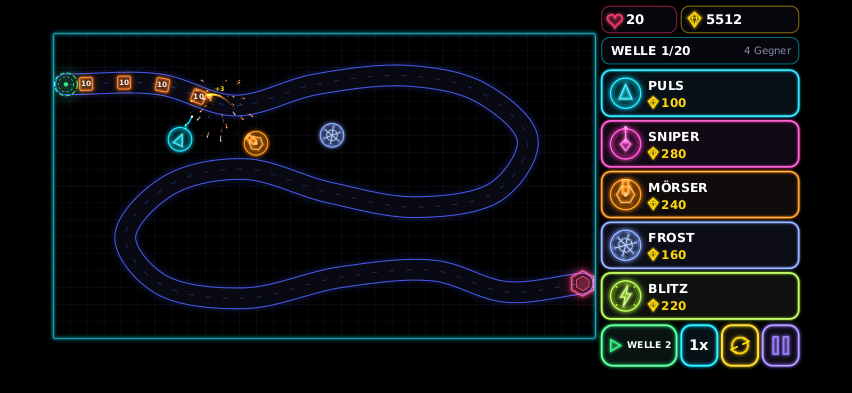
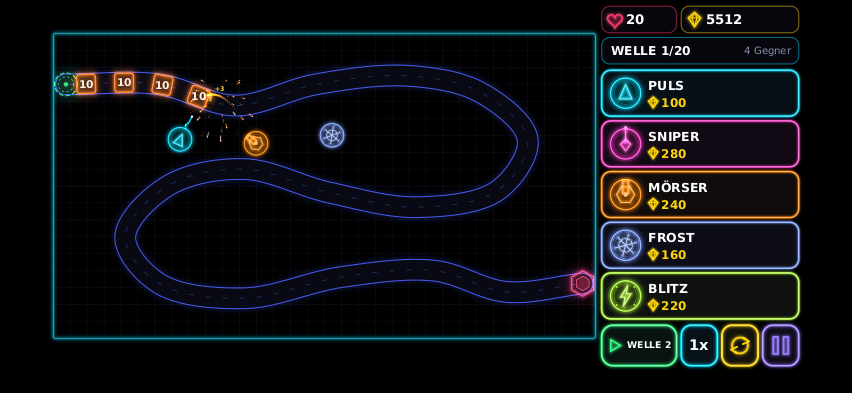
Handy: Gegner optisch vergrößert und HP-Zahlen mit Mindestgröße; robuste Bildschleife
Auf kleinen Bildschirmen (Kartenmaßstab < 0,6) werden Gegner bis zu 1,5-fach dargestellt (Trefferflächen
unverändert) und die HP-Zahl bleibt mindestens ~9,5 px hoch. Die Web-Bildschleife plant den nächsten Frame
vor der Arbeit ein und fängt Fehler ab.

Claude-Session: https://claude.ai/code/session_01KZXZywoB6J5WESCdtRxJgn

Changed region(s): [[0.061, 0.1527, 0.2746, 0.3053]]

diff --git a/core/src/main/java/neontd/render/EnemyArt.java b/core/src/main/java/neontd/render/EnemyArt.java
@@ -14,6 +14,16 @@ public final class EnemyArt {
     }
 
     public static void draw(Gfx g, Enemy e, double x, double y, double time) {
+        draw(g, e, x, y, time, 1, 0);
+    }
+
+    /**
+     * Zeichnet einen Gegner.
+     *
+     * @param visualScale Darstellungs-Vergrößerung (Trefferfläche bleibt gleich) – auf kleinen Bildschirmen > 1
+     * @param minFont     Mindest-Schriftgröße der HP-Zahl in Weltmaß (damit sie auf dem Handy lesbar bleibt)
+     */
+    public static void draw(Gfx g, Enemy e, double x, double y, double time, double visualScale, double minFont) {
         double r = e.radius;
         double spawn = Easing.outBack(Mathx.clamp01(e.age / 0.35));
         int c = Theme.enemyColor(e.hp);
@@ -22,7 +32,7 @@ public final class EnemyArt {
 
         g.save();
         g.translate(x, y);
-        g.scale(spawn, spawn);
+        g.scale(spawn * visualScale, spawn * visualScale);
         g.alpha(Math.min(1, e.age * 5));
 
         Neon.halo(g, 0, 0, r * 2.1, c, 0.16 + 0.22 * flash);
@@ -54,7 +64,7 @@ public final class EnemyArt {
         String label = HpLabel.of(e);
         int len = label.length();
         double size = len <= 2 ? r * 1.02 : (len == 3 ? r * 0.82 : r * 0.64);
-        size = Math.max(9, size);
+        size = Math.max(Math.max(9, minFont / visualScale), size);
         int tc = Colors.lerp(0xFFFFFF, c, 0.12);
         g.text(label, 0, e.type.shape == neontd.sim.EnemyType.Shape.TRIANGLE ? r * 0.05 : 0, size, tc,
                 Gfx.ALIGN_CENTER, true);

diff --git a/core/src/main/java/neontd/render/WorldView.java b/core/src/main/java/neontd/render/WorldView.java
@@ -54,6 +54,15 @@ public final class WorldView {
     }
 
     public static void drawEnemies(Gfx g, World world, double alpha, double time) {
+        drawEnemies(g, world, alpha, time, 1, 0);
+    }
+
+    /**
+     * @param visualScale Darstellungs-Vergrößerung der Gegner (nur Optik)
+     * @param minFont     Mindest-Schriftgröße der HP-Zahlen in Weltmaß
+     */
+    public static void drawEnemies(Gfx g, World world, double alpha, double time, double visualScale,
+                                   double minFont) {
         // Weiter hinten laufende Gegner zuerst, damit vordere Gegner oben liegen.
         for (int i = world.enemies.size() - 1; i >= 0; i--) {
             Enemy e = world.enemies.get(i);
@@ -62,7 +71,7 @@ public final class WorldView {
             }
             double x = e.prevX + (e.x - e.prevX) * alpha;
             double y = e.prevY + (e.y - e.prevY) * alpha;
-            EnemyArt.draw(g, e, x, y, time);
+            EnemyArt.draw(g, e, x, y, time, visualScale, minFont);
         }
     }
 

diff --git a/web/src/main/java/neontd/web/WebMain.java b/web/src/main/java/neontd/web/WebMain.java
@@ -29,6 +29,7 @@ public final class WebMain {
     private int activePointer = -1;
     private boolean firstFrame = true;
     private int frameCounter;
+    private int errorCount;
 
     private WebMain(HTMLCanvasElement canvas, boolean touch) {
         this.canvas = canvas;
@@ -156,8 +157,15 @@ public final class WebMain {
         Window.requestAnimationFrame(new AnimationFrameCallback() {
             @Override
             public void onAnimationFrame(double timestampMs) {
-                frame(timestampMs);
+                // Den nächsten Frame zuerst einplanen: Ein einzelner Fehler darf das Spiel nicht einfrieren lassen.
                 Window.requestAnimationFrame(this);
+                try {
+                    frame(timestampMs);
+                } catch (Throwable t) {
+                    if (errorCount++ < 5) {
+                        Js.log("Fehler im Frame: " + t);
+                    }
+                }
             }
         });
     }

diff --git a/core/src/main/java/neontd/scene/GameScene.java b/core/src/main/java/neontd/scene/GameScene.java
@@ -547,7 +547,9 @@ public final class GameScene extends Scene {
             double pulse = 0.5 + 0.5 * Math.sin(time * 5);
             Neon.circle(g, selected.x, selected.y, 47 + 2 * pulse, 1.6, Colors.withAlpha(0xFFFFFF, 0.7), 4);
         }
-        WorldView.drawEnemies(g, world, alpha, time);
+        // Auf kleinen Bildschirmen (Handy) die Gegner optisch vergrößern und die HP-Zahl lesbar halten.
+        double enemyScale = Mathx.clamp(10.5 / (17 * mapScale), 1, 1.5);
+        WorldView.drawEnemies(g, world, alpha, time, enemyScale, 9.5 / mapScale);
         WorldView.drawProjectiles(g, world, alpha);
         WorldView.drawEffects(g, fx);
         drawGhost(g);
